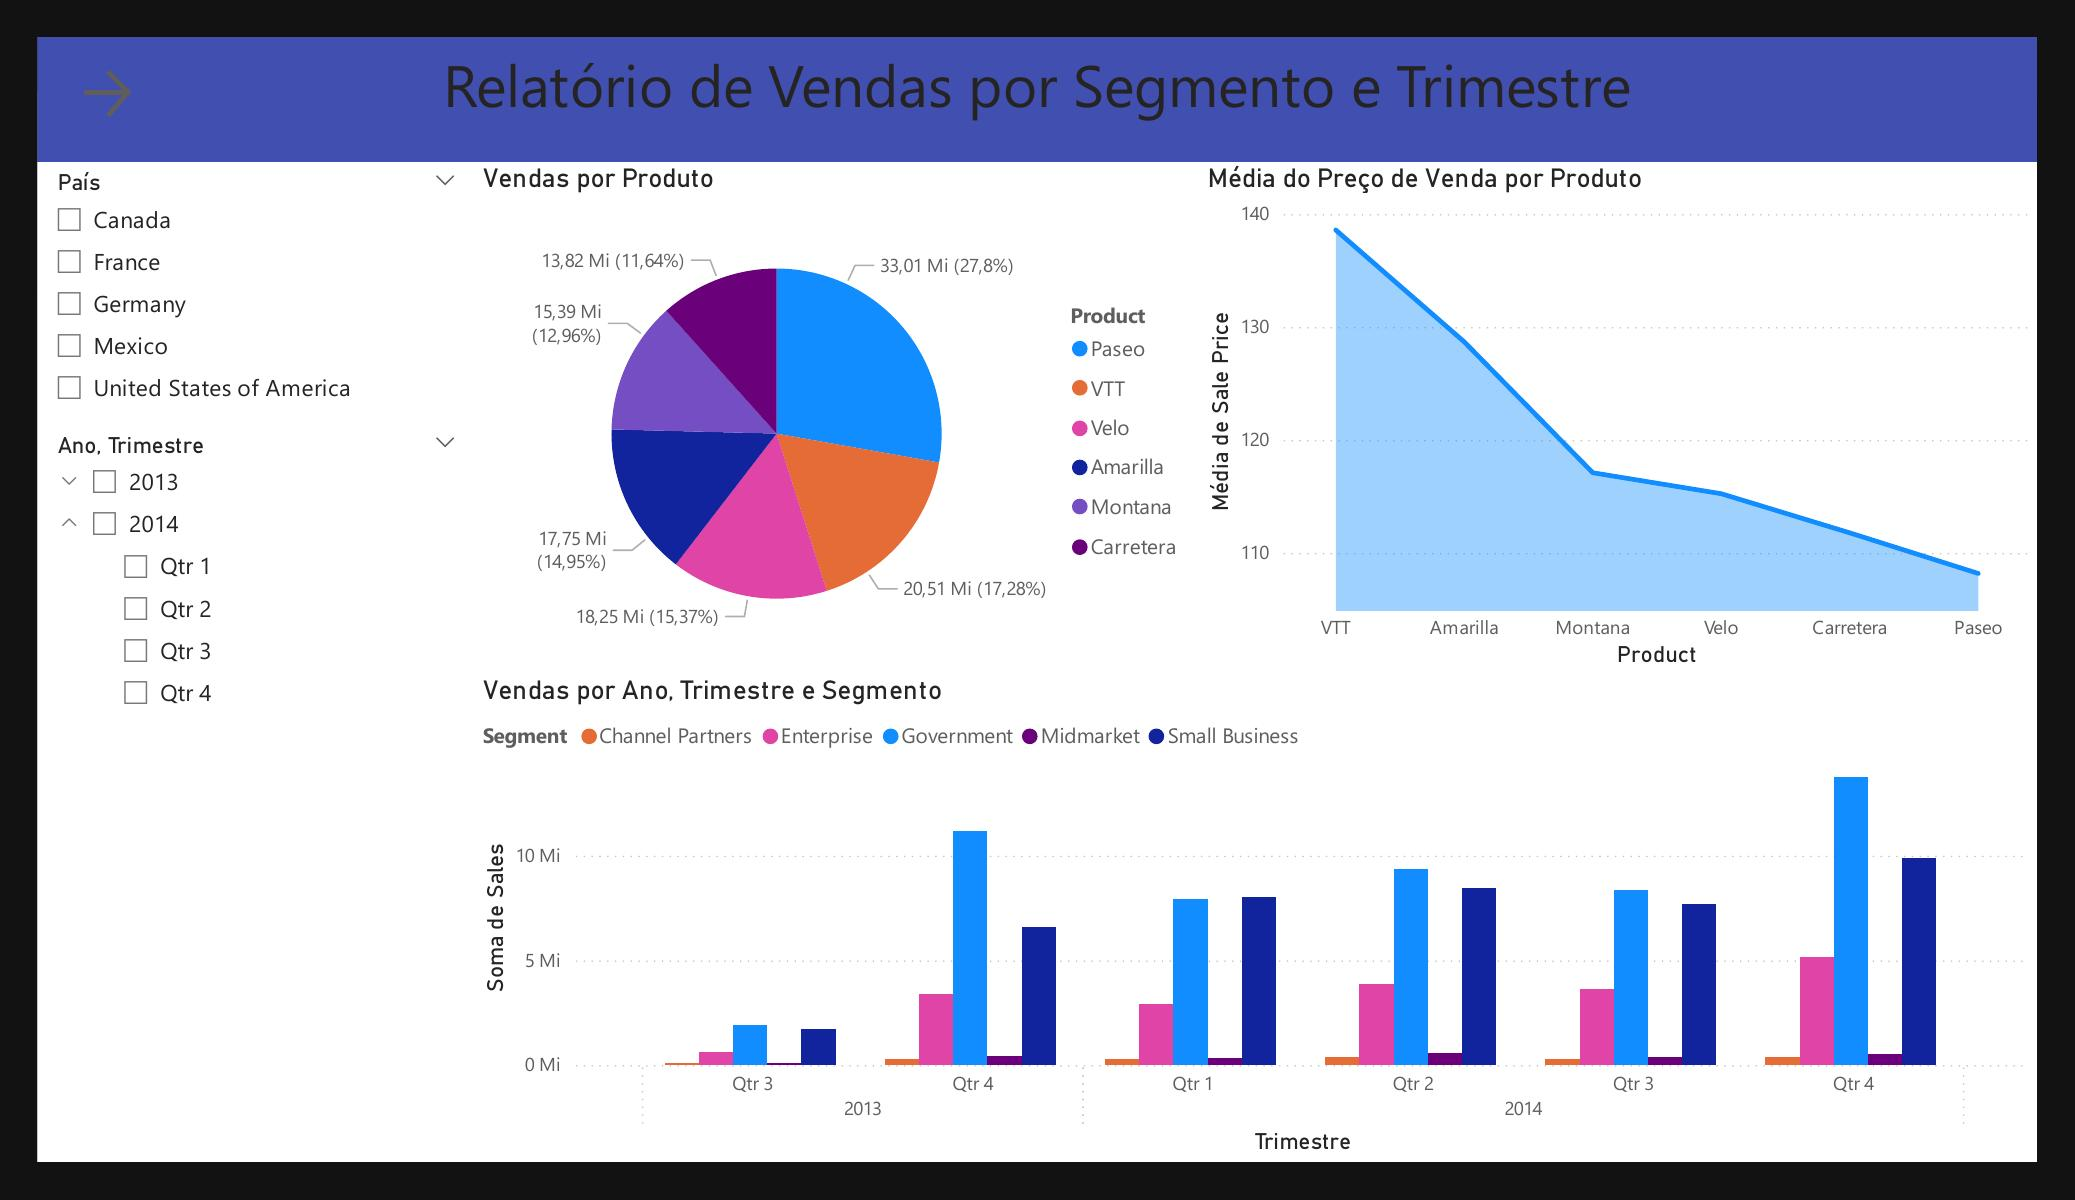
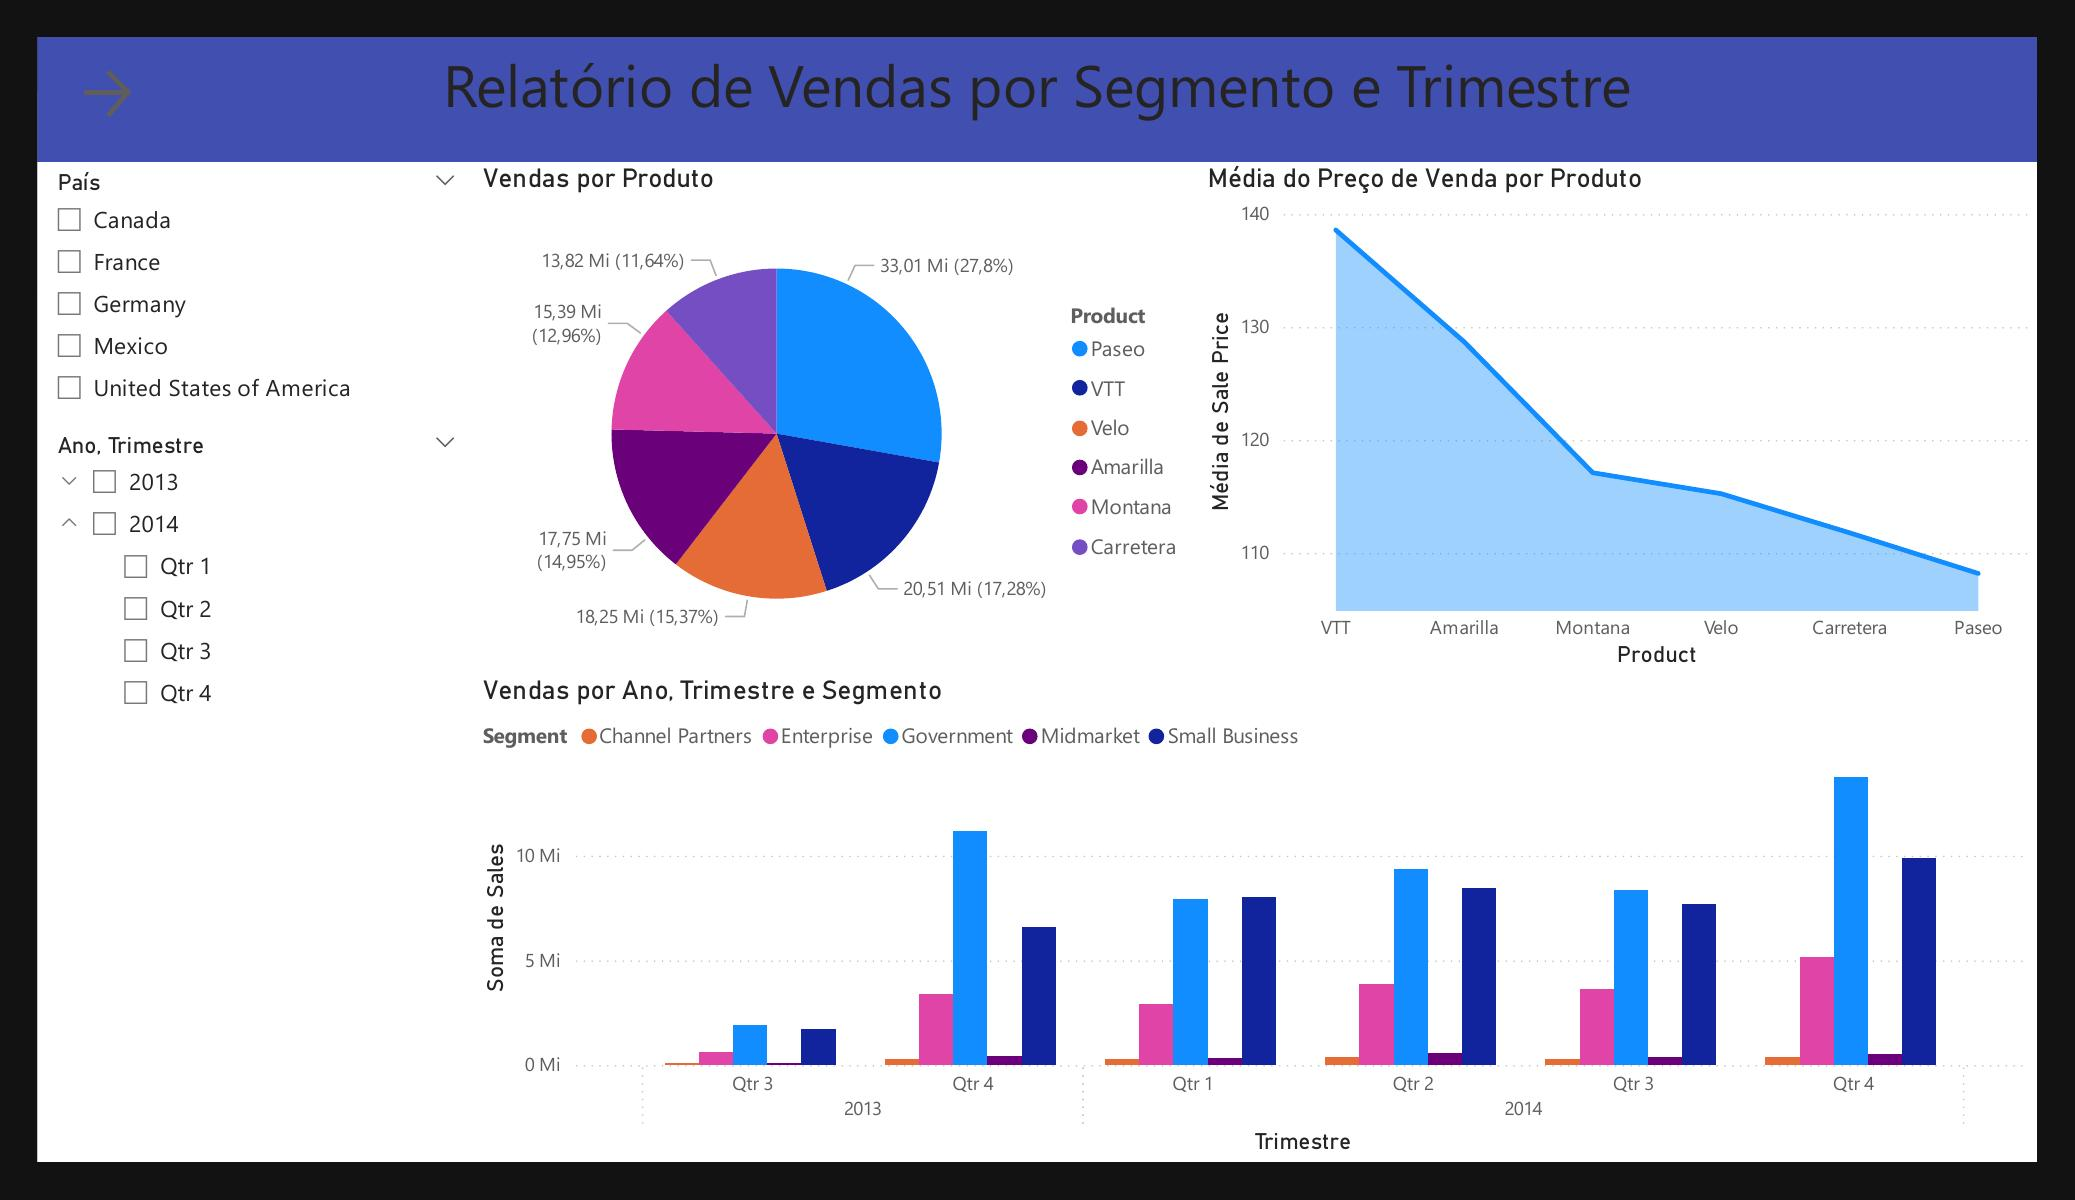
end

Changed region(s): [[0.2776, 0.2158, 0.4627, 0.5242], [0.4935, 0.3083, 0.5243, 0.3392]]

diff --git a/PowerBI/Auto/READ_ME.md b/PowerBI/Auto/READ_ME.md
@@ -65,7 +65,7 @@ Parte 2:
 | Country               | object         | String                           |
 | Product               | object         | String                           |
 | Discount Band         | object         | String, Métrica Interna          |
-| Units Sold            | float64        | Deveria ser Integer              |
+| Units Sold            | float64        | Integer, Unidades Vendidas       |
 | Manufacturing Price   | int64          | Métrica Interna                  |
 | Sale Price            | int64          | Métrica Interna                  |
 | Gross Sales           | float64        | Valor Nominal                    |
@@ -130,3 +130,9 @@ O segmento "O Prejuízo do Segmento Enterprise Desaparece do gráfico"
 </p>
 </div>
 </br>
+
+Visão Final do Dashboard:<br>
+<img src="./fig/PowerBI/Auto-1.jpg" alt="" style="height: 400px; width: auto;"><img src="./fig/PowerBI/Auto-2.jpg" alt="" style="height: 400px; width: auto;">
+<img src="./fig/PowerBI/Auto-3.jpg" alt="" style="height: 400px; width: auto;"><img src="./fig/PowerBI/Auto-4.jpg" alt="" style="height: 400px; width: auto;">
+<img src="./fig/PowerBI/Auto-5.jpg" alt="" style="height: 400px; width: auto;">
+
